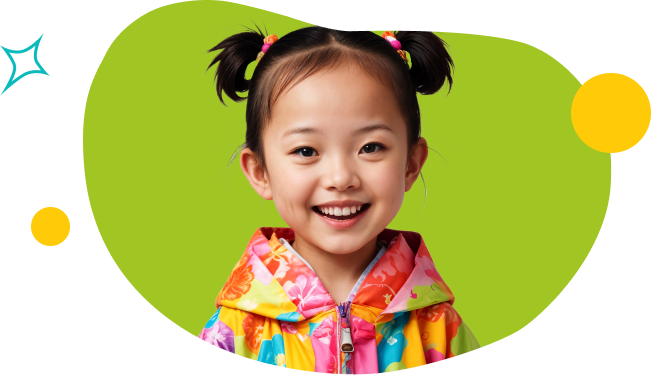
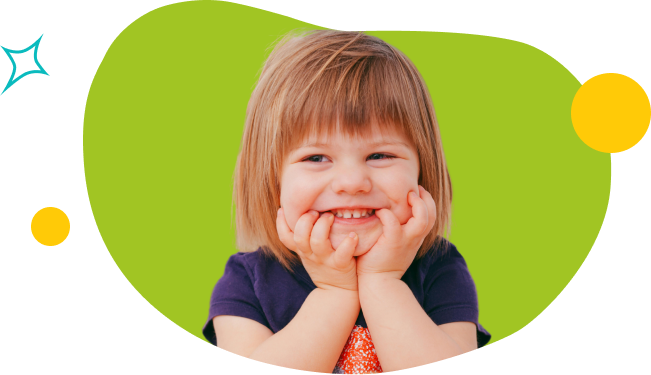
Update team images and book appointment image

Changed region(s): [[0.3072, 0.0587, 0.768, 1.0]]

diff --git a/patterns/our-team.php b/patterns/our-team.php
@@ -21,111 +21,9 @@
         <div class="wp-block-group" style="padding-top:0;padding-bottom:0">
             <!-- wp:group {"layout":{"type":"constrained"}} -->
             <div class="wp-block-group">
-                <!-- wp:image {"id":30,"sizeSlug":"full","linkDestination":"custom","align":"center"} -->
+                <!-- wp:image {"id":30,"sizeSlug":"full","linkDestination":"custom","align":"center","style":{"color":{"duotone":["#00d2d6","#00d2d6"]}}} -->
                 <figure class="wp-block-image aligncenter size-full"><a href="#">
-                        <img src="<?php echo esc_url(get_template_directory_uri()); ?>/src/images/our-team/img-doc-1.png" alt="" class="wp-image-30"/></a>
-                </figure>
-                <!-- /wp:image -->
-
-                <!-- wp:heading {"textAlign":"center","level":5} -->
-                <h5 class="wp-block-heading has-text-align-center"><strong><a href="#">Dr Jacinta Coleman</a></strong></h5>
-                <!-- /wp:heading -->
-
-                <!-- wp:paragraph {"align":"center","style":{"typography":{"textTransform":"none","lineHeight":"1.5"}},"fontSize":"m"} -->
-                <p class="has-text-align-center has-m-font-size" style="line-height:1.5;text-transform:none">Paediatrician &amp; Adolescent Physician</p>
-                <!-- /wp:paragraph -->
-            </div>
-            <!-- /wp:group -->
-            <!-- wp:group {"layout":{"type":"constrained"}} -->
-            <div class="wp-block-group">
-                <!-- wp:image {"id":30,"sizeSlug":"full","linkDestination":"custom","align":"center"} -->
-                <figure class="wp-block-image aligncenter size-full"><a href="#">
-                    <img src="<?php echo esc_url(get_template_directory_uri()); ?>/src/images/our-team/img-doc-2.png" alt="" class="wp-image-30"/></a>
-                </figure>
-                <!-- /wp:image -->
-
-                <!-- wp:heading {"textAlign":"center","level":5} -->
-                <h5 class="wp-block-heading has-text-align-center"><strong><a href="#"><?php echo esc_html__('Dr Jeremy Rajanayagam', 'pedicare-child-health-clinic'); ?></a></strong></h5>
-                <!-- /wp:heading -->
-
-                <!-- wp:paragraph {"align":"center","style":{"typography":{"textTransform":"none","lineHeight":"1.5"}},"fontSize":"m"} -->
-                <p class="has-text-align-center has-m-font-size" style="line-height:1.5;text-transform:none"><?php echo esc_html__('Paediatric Gastroenterologist & Hepatologist', 'pedicare-child-health-clinic'); ?></p>
-                <!-- /wp:paragraph -->
-            </div>
-            <!-- /wp:group -->
-            <!-- wp:group {"layout":{"type":"constrained"}} -->
-            <div class="wp-block-group">
-                <!-- wp:image {"id":30,"sizeSlug":"full","linkDestination":"custom","align":"center"} -->
-                <figure class="wp-block-image aligncenter size-full"><a href="#">
-                    <img src="<?php echo esc_url(get_template_directory_uri()); ?>/src/images/our-team/img-doc-3.png" alt="" class="wp-image-30"/></a>
-                </figure>
-                <!-- /wp:image -->
-
-                <!-- wp:heading {"textAlign":"center","level":5} -->
-                <h5 class="wp-block-heading has-text-align-center"><strong><a href="#"><?php echo esc_html__('Ms Renee Hewitt', 'pedicare-child-health-clinic'); ?></a></strong></h5>
-                <!-- /wp:heading -->
-
-                <!-- wp:paragraph {"align":"center","style":{"typography":{"textTransform":"none","lineHeight":"1.5"}},"fontSize":"m"} -->
-                <p class="has-text-align-center has-m-font-size" style="line-height:1.5;text-transform:none"><?php echo esc_html__('Clinical Neuropsychologist & Clinical Psychologist', 'pedicare-child-health-clinic'); ?></p>
-                <!-- /wp:paragraph -->
-            </div>
-            <!-- /wp:group -->
-            <!-- wp:group {"layout":{"type":"constrained"}} -->
-            <div class="wp-block-group">
-                <!-- wp:image {"id":30,"sizeSlug":"full","linkDestination":"custom","align":"center"} -->
-                <figure class="wp-block-image aligncenter size-full"><a href="#">
-                    <img src="<?php echo esc_url(get_template_directory_uri()); ?>/src/images/our-team/img-doc-4.png" alt="" class="wp-image-30"/></a>
-                </figure>
-                <!-- /wp:image -->
-
-                <!-- wp:heading {"textAlign":"center","level":5} -->
-                <h5 class="wp-block-heading has-text-align-center"><strong><a href="#"><?php echo esc_html__('Dr Sam Mehr', 'pedicare-child-health-clinic'); ?></a></strong></h5>
-                <!-- /wp:heading -->
-
-                <!-- wp:paragraph {"align":"center","style":{"typography":{"textTransform":"none","lineHeight":"1.5"}},"fontSize":"m"} -->
-                <p class="has-text-align-center has-m-font-size" style="line-height:1.5;text-transform:none"><?php echo esc_html__('Paediatric Allergist & Immunologist', 'pedicare-child-health-clinic'); ?></p>
-                <!-- /wp:paragraph -->
-            </div>
-            <!-- /wp:group -->
-            <!-- wp:group {"layout":{"type":"constrained"}} -->
-            <div class="wp-block-group">
-                <!-- wp:image {"id":30,"sizeSlug":"full","linkDestination":"custom","align":"center"} -->
-                <figure class="wp-block-image aligncenter size-full"><a href="#">
-                    <img src="<?php echo esc_url(get_template_directory_uri()); ?>/src/images/our-team/img-doc-1.png" alt="" class="wp-image-30"/></a>
-                </figure>
-                <!-- /wp:image -->
-
-                <!-- wp:heading {"textAlign":"center","level":5} -->
-                <h5 class="wp-block-heading has-text-align-center"><strong><a href="#"><?php echo esc_html__('Dr Geetika Badkar', 'pedicare-child-health-clinic'); ?></a></strong></h5>
-                <!-- /wp:heading -->
-
-                <!-- wp:paragraph {"align":"center","style":{"typography":{"textTransform":"none","lineHeight":"1.5"}},"fontSize":"m"} -->
-                <p class="has-text-align-center has-m-font-size" style="line-height:1.5;text-transform:none"><?php echo esc_html__('Developmental and General Paediatrician', 'pedicare-child-health-clinic'); ?></p>
-                <!-- /wp:paragraph -->
-            </div>
-            <!-- /wp:group -->
-            <!-- wp:group {"layout":{"type":"constrained"}} -->
-            <div class="wp-block-group">
-                <!-- wp:image {"id":30,"sizeSlug":"full","linkDestination":"custom","align":"center"} -->
-                <figure class="wp-block-image aligncenter size-full"><a href="#">
-                    <img src="<?php echo esc_url(get_template_directory_uri()); ?>/src/images/our-team/img-doc-2.png" alt="" class="wp-image-30"/></a>
-                </figure>
-                <!-- /wp:image -->
-
-                <!-- wp:heading {"textAlign":"center","level":5} -->
-                <h5 class="wp-block-heading has-text-align-center"><strong><a href="#"><?php echo esc_html__('Dr Itay Zelcer', 'pedicare-child-health-clinic'); ?></a></strong></h5>
-                <!-- /wp:heading -->
-
-                <!-- wp:paragraph {"align":"center","style":{"typography":{"textTransform":"none","lineHeight":"1.5"}},"fontSize":"m"} -->
-                <p class="has-text-align-center has-m-font-size" style="line-height:1.5;text-transform:none"><?php echo esc_html__('Paediatric Neurologist', 'pedicare-child-health-clinic'); ?></p>
-                <!-- /wp:paragraph -->
-            </div>
-            <!-- /wp:group -->
-            <!-- wp:group {"layout":{"type":"constrained"}} -->
-            <div class="wp-block-group">
-                <!-- wp:image {"id":30,"sizeSlug":"full","linkDestination":"custom","align":"center"} -->
-                <figure class="wp-block-image aligncenter size-full"><a href="#">
-                    <img src="<?php echo esc_url(get_template_directory_uri()); ?>/src/images/our-team/img-doc-3.png" alt="" class="wp-image-30"/></a>
+                        <img src="<?php echo esc_url(get_template_directory_uri()); ?>/src/images/our-team/team-man.svg" alt="" class="wp-image-30"/></a>
                 </figure>
                 <!-- /wp:image -->
 
@@ -134,15 +32,15 @@
                 <!-- /wp:heading -->
 
                 <!-- wp:paragraph {"align":"center","style":{"typography":{"textTransform":"none","lineHeight":"1.5"}},"fontSize":"m"} -->
-                <p class="has-text-align-center has-m-font-size" style="line-height:1.5;text-transform:none"><?php echo esc_html__('Paediatrician & Adolescent Physician', 'pedicare-child-health-clinic'); ?></p>
+                <p class="has-text-align-center has-m-font-size" style="line-height:1.5;text-transform:none"><?php echo esc_html__('Paediatrician &amp; Adolescent Physician', 'pedicare-child-health-clinic'); ?></p>
                 <!-- /wp:paragraph -->
             </div>
             <!-- /wp:group -->
             <!-- wp:group {"layout":{"type":"constrained"}} -->
             <div class="wp-block-group">
-                <!-- wp:image {"id":30,"sizeSlug":"full","linkDestination":"custom","align":"center"} -->
+                <!-- wp:image {"id":30,"sizeSlug":"full","linkDestination":"custom","align":"center","style":{"color":{"duotone":["#f78da7","#f78da7"]}}} -->
                 <figure class="wp-block-image aligncenter size-full"><a href="#">
-                    <img src="<?php echo esc_url(get_template_directory_uri()); ?>/src/images/our-team/img-doc-4.png" alt="" class="wp-image-30"/></a>
+                    <img src="<?php echo esc_url(get_template_directory_uri()); ?>/src/images/our-team/team-girl.svg" alt="" class="wp-image-30"/></a>
                 </figure>
                 <!-- /wp:image -->
 
@@ -157,9 +55,9 @@
             <!-- /wp:group -->
             <!-- wp:group {"layout":{"type":"constrained"}} -->
             <div class="wp-block-group">
-                <!-- wp:image {"id":30,"sizeSlug":"full","linkDestination":"custom","align":"center"} -->
+                <!-- wp:image {"id":30,"sizeSlug":"full","linkDestination":"custom","align":"center","style":{"color":{"duotone":["#f6751d","#f6751d"]}}} -->
                 <figure class="wp-block-image aligncenter size-full"><a href="#">
-                    <img src="<?php echo esc_url(get_template_directory_uri()); ?>/src/images/our-team/img-doc-1.png" alt="" class="wp-image-30"/></a>
+                    <img src="<?php echo esc_url(get_template_directory_uri()); ?>/src/images/our-team/team-girl.svg" alt="" class="wp-image-30"/></a>
                 </figure>
                 <!-- /wp:image -->
 
@@ -174,9 +72,10 @@
             <!-- /wp:group -->
             <!-- wp:group {"layout":{"type":"constrained"}} -->
             <div class="wp-block-group">
-                <!-- wp:image {"id":30,"sizeSlug":"full","linkDestination":"custom","align":"center"} -->
+
+                <!-- wp:image {"id":30,"sizeSlug":"full","linkDestination":"custom","align":"center","style":{"color":{"duotone":["#ffc22e","#ffc22e"]}}} -->
                 <figure class="wp-block-image aligncenter size-full"><a href="#">
-                    <img src="<?php echo esc_url(get_template_directory_uri()); ?>/src/images/our-team/img-doc-2.png" alt="" class="wp-image-30"/></a>
+                    <img src="<?php echo esc_url(get_template_directory_uri()); ?>/src/images/our-team/team-man.svg" alt="" class="wp-image-30"/></a>
                 </figure>
                 <!-- /wp:image -->
 
@@ -191,35 +90,139 @@
             <!-- /wp:group -->
             <!-- wp:group {"layout":{"type":"constrained"}} -->
             <div class="wp-block-group">
-                <!-- wp:image {"id":30,"sizeSlug":"full","linkDestination":"custom","align":"center"} -->
+                <!-- wp:image {"id":30,"sizeSlug":"full","linkDestination":"custom","align":"center","style":{"color":{"duotone":["#00d2d6","#00d2d6"]}}} -->
                 <figure class="wp-block-image aligncenter size-full"><a href="#">
-                    <img src="<?php echo esc_url(get_template_directory_uri()); ?>/src/images/our-team/img-doc-3.png" alt="" class="wp-image-30"/></a>
+                        <img src="<?php echo esc_url(get_template_directory_uri()); ?>/src/images/our-team/team-man.svg" alt="" class="wp-image-30"/></a>
                 </figure>
                 <!-- /wp:image -->
 
                 <!-- wp:heading {"textAlign":"center","level":5} -->
-                <h5 class="wp-block-heading has-text-align-center"><strong><a href="#"><?php echo esc_html__('Dr Geetika Badkar', 'pedicare-child-health-clinic'); ?></a></strong></h5>
+                <h5 class="wp-block-heading has-text-align-center"><strong><a href="#"><?php echo esc_html__('Dr Jacinta Coleman', 'pedicare-child-health-clinic'); ?></a></strong></h5>
                 <!-- /wp:heading -->
 
                 <!-- wp:paragraph {"align":"center","style":{"typography":{"textTransform":"none","lineHeight":"1.5"}},"fontSize":"m"} -->
-                <p class="has-text-align-center has-m-font-size" style="line-height:1.5;text-transform:none"><?php echo esc_html__('Developmental and General Paediatrician', 'pedicare-child-health-clinic'); ?></p>
+                <p class="has-text-align-center has-m-font-size" style="line-height:1.5;text-transform:none"><?php echo esc_html__('Paediatrician &amp; Adolescent Physician', 'pedicare-child-health-clinic'); ?></p>
                 <!-- /wp:paragraph -->
             </div>
             <!-- /wp:group -->
             <!-- wp:group {"layout":{"type":"constrained"}} -->
             <div class="wp-block-group">
-                <!-- wp:image {"id":30,"sizeSlug":"full","linkDestination":"custom","align":"center"} -->
+                <!-- wp:image {"id":30,"sizeSlug":"full","linkDestination":"custom","align":"center","style":{"color":{"duotone":["#f78da7","#f78da7"]}}} -->
                 <figure class="wp-block-image aligncenter size-full"><a href="#">
-                    <img src="<?php echo esc_url(get_template_directory_uri()); ?>/src/images/our-team/img-doc-4.png" alt="" class="wp-image-30"/></a>
+                    <img src="<?php echo esc_url(get_template_directory_uri()); ?>/src/images/our-team/team-girl.svg" alt="" class="wp-image-30"/></a>
                 </figure>
                 <!-- /wp:image -->
 
                 <!-- wp:heading {"textAlign":"center","level":5} -->
-                <h5 class="wp-block-heading has-text-align-center"><strong><a href="#"><?php echo esc_html__('Dr Itay Zelcer', 'pedicare-child-health-clinic'); ?></a></strong></h5>
+                <h5 class="wp-block-heading has-text-align-center"><strong><a href="#"><?php echo esc_html__('Dr Jeremy Rajanayagam', 'pedicare-child-health-clinic'); ?></a></strong></h5>
                 <!-- /wp:heading -->
 
                 <!-- wp:paragraph {"align":"center","style":{"typography":{"textTransform":"none","lineHeight":"1.5"}},"fontSize":"m"} -->
-                <p class="has-text-align-center has-m-font-size" style="line-height:1.5;text-transform:none"><?php echo esc_html__('Paediatric Neurologist', 'pedicare-child-health-clinic'); ?></p>
+                <p class="has-text-align-center has-m-font-size" style="line-height:1.5;text-transform:none"><?php echo esc_html__('Paediatric Gastroenterologist & Hepatologist', 'pedicare-child-health-clinic'); ?></p>
+                <!-- /wp:paragraph -->
+            </div>
+            <!-- /wp:group -->
+            <!-- wp:group {"layout":{"type":"constrained"}} -->
+            <div class="wp-block-group">
+                <!-- wp:image {"id":30,"sizeSlug":"full","linkDestination":"custom","align":"center","style":{"color":{"duotone":["#f6751d","#f6751d"]}}} -->
+                <figure class="wp-block-image aligncenter size-full"><a href="#">
+                    <img src="<?php echo esc_url(get_template_directory_uri()); ?>/src/images/our-team/team-girl.svg" alt="" class="wp-image-30"/></a>
+                </figure>
+                <!-- /wp:image -->
+
+                <!-- wp:heading {"textAlign":"center","level":5} -->
+                <h5 class="wp-block-heading has-text-align-center"><strong><a href="#"><?php echo esc_html__('Ms Renee Hewitt', 'pedicare-child-health-clinic'); ?></a></strong></h5>
+                <!-- /wp:heading -->
+
+                <!-- wp:paragraph {"align":"center","style":{"typography":{"textTransform":"none","lineHeight":"1.5"}},"fontSize":"m"} -->
+                <p class="has-text-align-center has-m-font-size" style="line-height:1.5;text-transform:none"><?php echo esc_html__('Clinical Neuropsychologist & Clinical Psychologist', 'pedicare-child-health-clinic'); ?></p>
+                <!-- /wp:paragraph -->
+            </div>
+            <!-- /wp:group -->
+            <!-- wp:group {"layout":{"type":"constrained"}} -->
+            <div class="wp-block-group">
+
+                <!-- wp:image {"id":30,"sizeSlug":"full","linkDestination":"custom","align":"center","style":{"color":{"duotone":["#ffc22e","#ffc22e"]}}} -->
+                <figure class="wp-block-image aligncenter size-full"><a href="#">
+                    <img src="<?php echo esc_url(get_template_directory_uri()); ?>/src/images/our-team/team-man.svg" alt="" class="wp-image-30"/></a>
+                </figure>
+                <!-- /wp:image -->
+
+                <!-- wp:heading {"textAlign":"center","level":5} -->
+                <h5 class="wp-block-heading has-text-align-center"><strong><a href="#"><?php echo esc_html__('Dr Sam Mehr', 'pedicare-child-health-clinic'); ?></a></strong></h5>
+                <!-- /wp:heading -->
+
+                <!-- wp:paragraph {"align":"center","style":{"typography":{"textTransform":"none","lineHeight":"1.5"}},"fontSize":"m"} -->
+                <p class="has-text-align-center has-m-font-size" style="line-height:1.5;text-transform:none"><?php echo esc_html__('Paediatric Allergist & Immunologist', 'pedicare-child-health-clinic'); ?></p>
+                <!-- /wp:paragraph -->
+            </div>
+            <!-- /wp:group -->
+            <!-- wp:group {"layout":{"type":"constrained"}} -->
+            <div class="wp-block-group">
+                <!-- wp:image {"id":30,"sizeSlug":"full","linkDestination":"custom","align":"center","style":{"color":{"duotone":["#00d2d6","#00d2d6"]}}} -->
+                <figure class="wp-block-image aligncenter size-full"><a href="#">
+                        <img src="<?php echo esc_url(get_template_directory_uri()); ?>/src/images/our-team/team-man.svg" alt="" class="wp-image-30"/></a>
+                </figure>
+                <!-- /wp:image -->
+
+                <!-- wp:heading {"textAlign":"center","level":5} -->
+                <h5 class="wp-block-heading has-text-align-center"><strong><a href="#"><?php echo esc_html__('Dr Jacinta Coleman', 'pedicare-child-health-clinic'); ?></a></strong></h5>
+                <!-- /wp:heading -->
+
+                <!-- wp:paragraph {"align":"center","style":{"typography":{"textTransform":"none","lineHeight":"1.5"}},"fontSize":"m"} -->
+                <p class="has-text-align-center has-m-font-size" style="line-height:1.5;text-transform:none"><?php echo esc_html__('Paediatrician &amp; Adolescent Physician', 'pedicare-child-health-clinic'); ?></p>
+                <!-- /wp:paragraph -->
+            </div>
+            <!-- /wp:group -->
+            <!-- wp:group {"layout":{"type":"constrained"}} -->
+            <div class="wp-block-group">
+                <!-- wp:image {"id":30,"sizeSlug":"full","linkDestination":"custom","align":"center","style":{"color":{"duotone":["#f78da7","#f78da7"]}}} -->
+                <figure class="wp-block-image aligncenter size-full"><a href="#">
+                    <img src="<?php echo esc_url(get_template_directory_uri()); ?>/src/images/our-team/team-girl.svg" alt="" class="wp-image-30"/></a>
+                </figure>
+                <!-- /wp:image -->
+
+                <!-- wp:heading {"textAlign":"center","level":5} -->
+                <h5 class="wp-block-heading has-text-align-center"><strong><a href="#"><?php echo esc_html__('Dr Jeremy Rajanayagam', 'pedicare-child-health-clinic'); ?></a></strong></h5>
+                <!-- /wp:heading -->
+
+                <!-- wp:paragraph {"align":"center","style":{"typography":{"textTransform":"none","lineHeight":"1.5"}},"fontSize":"m"} -->
+                <p class="has-text-align-center has-m-font-size" style="line-height:1.5;text-transform:none"><?php echo esc_html__('Paediatric Gastroenterologist & Hepatologist', 'pedicare-child-health-clinic'); ?></p>
+                <!-- /wp:paragraph -->
+            </div>
+            <!-- /wp:group -->
+            <!-- wp:group {"layout":{"type":"constrained"}} -->
+            <div class="wp-block-group">
+                <!-- wp:image {"id":30,"sizeSlug":"full","linkDestination":"custom","align":"center","style":{"color":{"duotone":["#f6751d","#f6751d"]}}} -->
+                <figure class="wp-block-image aligncenter size-full"><a href="#">
+                    <img src="<?php echo esc_url(get_template_directory_uri()); ?>/src/images/our-team/team-girl.svg" alt="" class="wp-image-30"/></a>
+                </figure>
+                <!-- /wp:image -->
+
+                <!-- wp:heading {"textAlign":"center","level":5} -->
+                <h5 class="wp-block-heading has-text-align-center"><strong><a href="#"><?php echo esc_html__('Ms Renee Hewitt', 'pedicare-child-health-clinic'); ?></a></strong></h5>
+                <!-- /wp:heading -->
+
+                <!-- wp:paragraph {"align":"center","style":{"typography":{"textTransform":"none","lineHeight":"1.5"}},"fontSize":"m"} -->
+                <p class="has-text-align-center has-m-font-size" style="line-height:1.5;text-transform:none"><?php echo esc_html__('Clinical Neuropsychologist & Clinical Psychologist', 'pedicare-child-health-clinic'); ?></p>
+                <!-- /wp:paragraph -->
+            </div>
+            <!-- /wp:group -->
+            <!-- wp:group {"layout":{"type":"constrained"}} -->
+            <div class="wp-block-group">
+
+                <!-- wp:image {"id":30,"sizeSlug":"full","linkDestination":"custom","align":"center","style":{"color":{"duotone":["#ffc22e","#ffc22e"]}}} -->
+                <figure class="wp-block-image aligncenter size-full"><a href="#">
+                    <img src="<?php echo esc_url(get_template_directory_uri()); ?>/src/images/our-team/team-man.svg" alt="" class="wp-image-30"/></a>
+                </figure>
+                <!-- /wp:image -->
+
+                <!-- wp:heading {"textAlign":"center","level":5} -->
+                <h5 class="wp-block-heading has-text-align-center"><strong><a href="#"><?php echo esc_html__('Dr Sam Mehr', 'pedicare-child-health-clinic'); ?></a></strong></h5>
+                <!-- /wp:heading -->
+
+                <!-- wp:paragraph {"align":"center","style":{"typography":{"textTransform":"none","lineHeight":"1.5"}},"fontSize":"m"} -->
+                <p class="has-text-align-center has-m-font-size" style="line-height:1.5;text-transform:none"><?php echo esc_html__('Paediatric Allergist & Immunologist', 'pedicare-child-health-clinic'); ?></p>
                 <!-- /wp:paragraph -->
             </div>
             <!-- /wp:group -->

diff --git a/patterns/services.php b/patterns/services.php
@@ -6,17 +6,12 @@
  * Viewport Width: 1280
  */
 ?>
-<!-- wp:group {"tagName":"main","className":"main-frontpage pedicare-child-health-clinic-services","style":{"spacing":{"padding":{"top":"var:preset|spacing|80","bottom":"var:preset|spacing|80","right":"var:preset|spacing|50","left":"var:preset|spacing|50"}},"backgroundColor":"background-color","layout":{"type":"constrained","contentSize":"1360px"}} -->
-<main id="services" class="wp-block-group main-frontpage pedicare-child-health-clinic-services has-background-color-background-color has-background" style="padding-top:var(--wp--preset--spacing--80);padding-right:var(--wp--preset--spacing--50);padding-bottom:var(--wp--preset--spacing--80);padding-left:var(--wp--preset--spacing--50)">
-    <!-- wp:group {"align":"full","style":{"spacing":{"blockGap":"0","padding":{"top":"var:preset|spacing|0","bottom":"var:preset|spacing|0","right":"var:preset|spacing|0","left":"var:preset|spacing|0"}}},"layout":{"type":"constrained","contentSize":"1360px"}} -->
-    <div class="wp-block-group alignfull "
-         style="padding-top:var(--wp--preset--spacing--0);padding-right:var(--wp--preset--spacing--0);padding-bottom:var(--wp--preset--spacing--0);padding-left:var(--wp--preset--spacing--0)">
-        <!-- wp:group {"style":{"spacing":{"margin":{"bottom":"var:preset|spacing|50"}}},"layout":{"type":"constrained","contentSize":"720px","justifyContent":"center"}} -->
-        <div class="wp-block-group" style="margin-bottom:var(--wp--preset--spacing--50)">
-            <!-- wp:heading {"textAlign":"center","style":{"typography":{"textTransform":"none"},"spacing":{"margin":{"bottom":"var:preset|spacing|70"}}}} -->
+<!-- wp:group {"className":"main-frontpage pedicare-child-health-clinic-services has-background-color-background-color has-background"} -->
+<div id="services" class="wp-block-group main-frontpage pedicare-child-health-clinic-services has-background-color-background-color has-background"><!-- wp:group {"align":"full","style":{"spacing":{"blockGap":"0","padding":{"top":"var:preset|spacing|0","bottom":"var:preset|spacing|0","right":"var:preset|spacing|0","left":"var:preset|spacing|0"}}},"layout":{"type":"constrained","contentSize":"1360px"}} -->
+    <div class="wp-block-group alignfull" style="padding-top:var(--wp--preset--spacing--0);padding-right:var(--wp--preset--spacing--0);padding-bottom:var(--wp--preset--spacing--0);padding-left:var(--wp--preset--spacing--0)"><!-- wp:group {"style":{"spacing":{"margin":{"bottom":"var:preset|spacing|50"}}},"layout":{"type":"constrained","contentSize":"720px","justifyContent":"center"}} -->
+        <div class="wp-block-group" style="margin-bottom:var(--wp--preset--spacing--50)"><!-- wp:heading {"textAlign":"center","style":{"typography":{"textTransform":"none"},"spacing":{"margin":{"bottom":"var:preset|spacing|70"}}}} -->
             <h2 class="wp-block-heading has-text-align-center" style="margin-bottom:var(--wp--preset--spacing--70);text-transform:none"><?php echo esc_html__('Services', 'pedicare-child-health-clinic'); ?></h2>
-            <!-- /wp:heading -->
-        </div>
+            <!-- /wp:heading --></div>
         <!-- /wp:group -->
 
         <!-- wp:group {"style":{"spacing":{"padding":{"top":"0","bottom":"0"},"blockGap":"var:preset|spacing|50"}},"layout":{"type":"grid","columnCount":null,"minimumColumnWidth":"12rem"}} -->
@@ -156,6 +151,5 @@
         </div>
         <!-- /wp:group -->
     </div>
-    <!-- /wp:group -->
-</main>
+    <!-- /wp:group --></div>
 <!-- /wp:group -->

diff --git a/patterns/footer-default.php b/patterns/footer-default.php
@@ -9,7 +9,10 @@
 ?>
 <!-- wp:group {"align":"full","style":{"spacing":{"padding":{"top":"var:preset|spacing|80","bottom":"0","left":"0","right":"0"},"blockGap":"0"},"elements":{"link":{"color":{"text":"var:preset|color|white"}}}},"textColor":"white","gradient":"footer-top-to-bottom","layout":{"type":"constrained","contentSize":"1360px"}} -->
 <div class="wp-block-group alignfull has-white-color has-footer-top-to-bottom-gradient-background has-text-color has-background has-link-color" style="padding-top:var(--wp--preset--spacing--80);padding-right:0;padding-bottom:0;padding-left:0"><!-- wp:group {"style":{"spacing":{"padding":{"top":"var:preset|spacing|70","bottom":"var:preset|spacing|70","right":"var:preset|spacing|50","left":"var:preset|spacing|50"},"blockGap":"0"}},"layout":{"type":"flex","flexWrap":"wrap","justifyContent":"space-between"}} -->
-    <div class="wp-block-group" style="padding-top:var(--wp--preset--spacing--70);padding-right:var(--wp--preset--spacing--50);padding-bottom:var(--wp--preset--spacing--70);padding-left:var(--wp--preset--spacing--50)"><!-- wp:site-logo {"width":122,"className":"is-style-default"} /-->
+    <div class="wp-block-group" style="padding-top:var(--wp--preset--spacing--70);padding-right:var(--wp--preset--spacing--50);padding-bottom:var(--wp--preset--spacing--70);padding-left:var(--wp--preset--spacing--50)">
+        <!-- wp:image {"id":17,"width":"auto","height":"60px","sizeSlug":"full","linkDestination":"none"} -->
+        <figure class="wp-block-image size-full is-resized"><img src="<?php echo esc_url(get_template_directory_uri());?>/src/images/logos/logo.svg" alt="" class="wp-image-17" style="width:auto;height:60px"/></figure>
+        <!-- /wp:image -->
 
         <!-- wp:buttons {"layout":{"type":"flex","justifyContent":"left"}} -->
         <div class="wp-block-buttons"><!-- wp:button {"textColor":"foreground","className":"is-style-outline","style":{"elements":{"link":{"color":{"text":"var:preset|color|foreground"}}},"typography":{"textTransform":"uppercase"},"border":{"width":"0px","style":"none"}}} -->

diff --git a/patterns/header-default.php b/patterns/header-default.php
@@ -8,7 +8,10 @@
 ?>
 <!-- wp:group {"className":"header","style":{"spacing":{"padding":{"top":"var:preset|spacing|40","right":"var:preset|spacing|20","bottom":"var:preset|spacing|40","left":"var:preset|spacing|20"}},"position":{"type":""}},"backgroundColor":"foreground","layout":{"type":"constrained","contentSize":"1360px","wideSize":"1360px"}} -->
 <div class="wp-block-group header has-foreground-background-color has-background" style="padding-top:var(--wp--preset--spacing--40);padding-right:var(--wp--preset--spacing--20);padding-bottom:var(--wp--preset--spacing--40);padding-left:var(--wp--preset--spacing--20)"><!-- wp:group {"align":"wide","layout":{"type":"flex","flexWrap":"nowrap","justifyContent":"space-between"}} -->
-    <div class="wp-block-group alignwide"><!-- wp:site-logo {"shouldSyncIcon":true} /-->
+    <div class="wp-block-group alignwide">
+        <!-- wp:image {"id":17,"width":"auto","height":"60px","sizeSlug":"full","linkDestination":"none"} -->
+        <figure class="wp-block-image size-full is-resized"><img src="<?php echo esc_url(get_template_directory_uri());?>/src/images/logos/logo.svg" alt="" class="wp-image-17" style="width:auto;height:60px"/></figure>
+        <!-- /wp:image -->
 
         <!-- wp:group {"className":"mobile-hidden","layout":{"type":"flex","flexWrap":"nowrap"}} -->
         <div class="wp-block-group mobile-hidden"><!-- wp:buttons {"fontSize":"m","layout":{"type":"flex","verticalAlignment":"center","justifyContent":"right"}} -->
